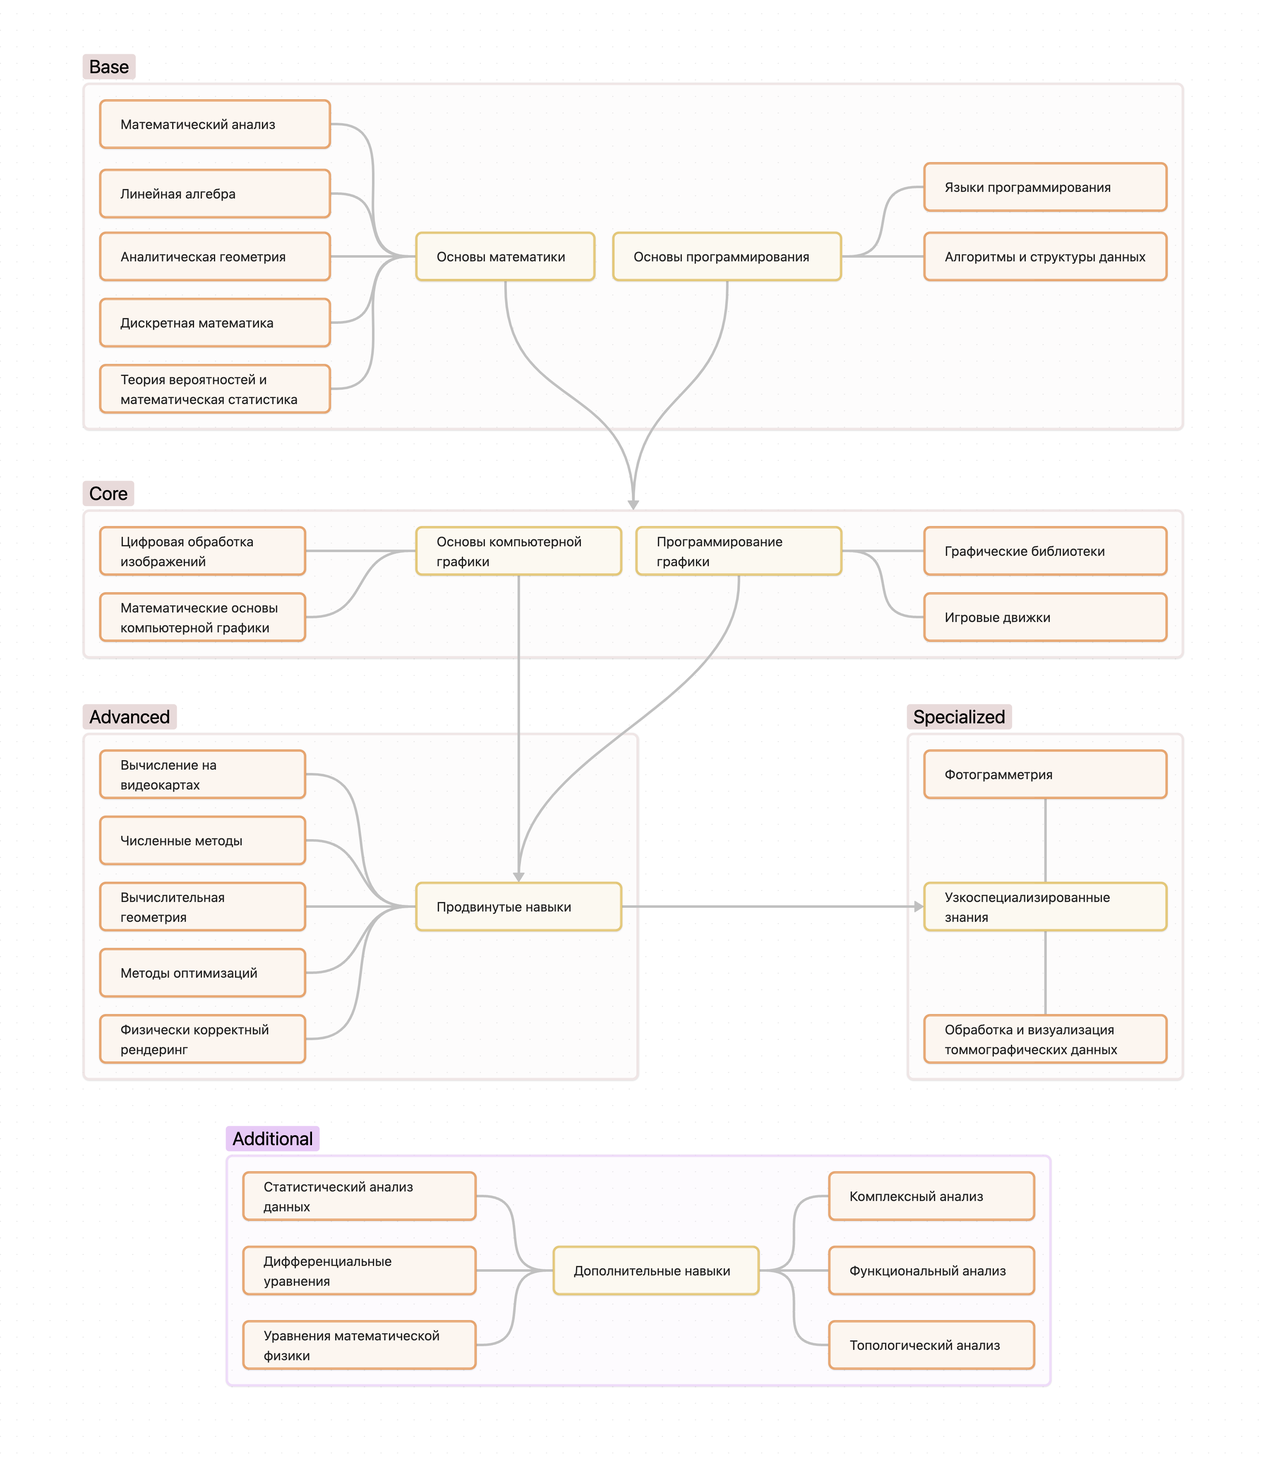
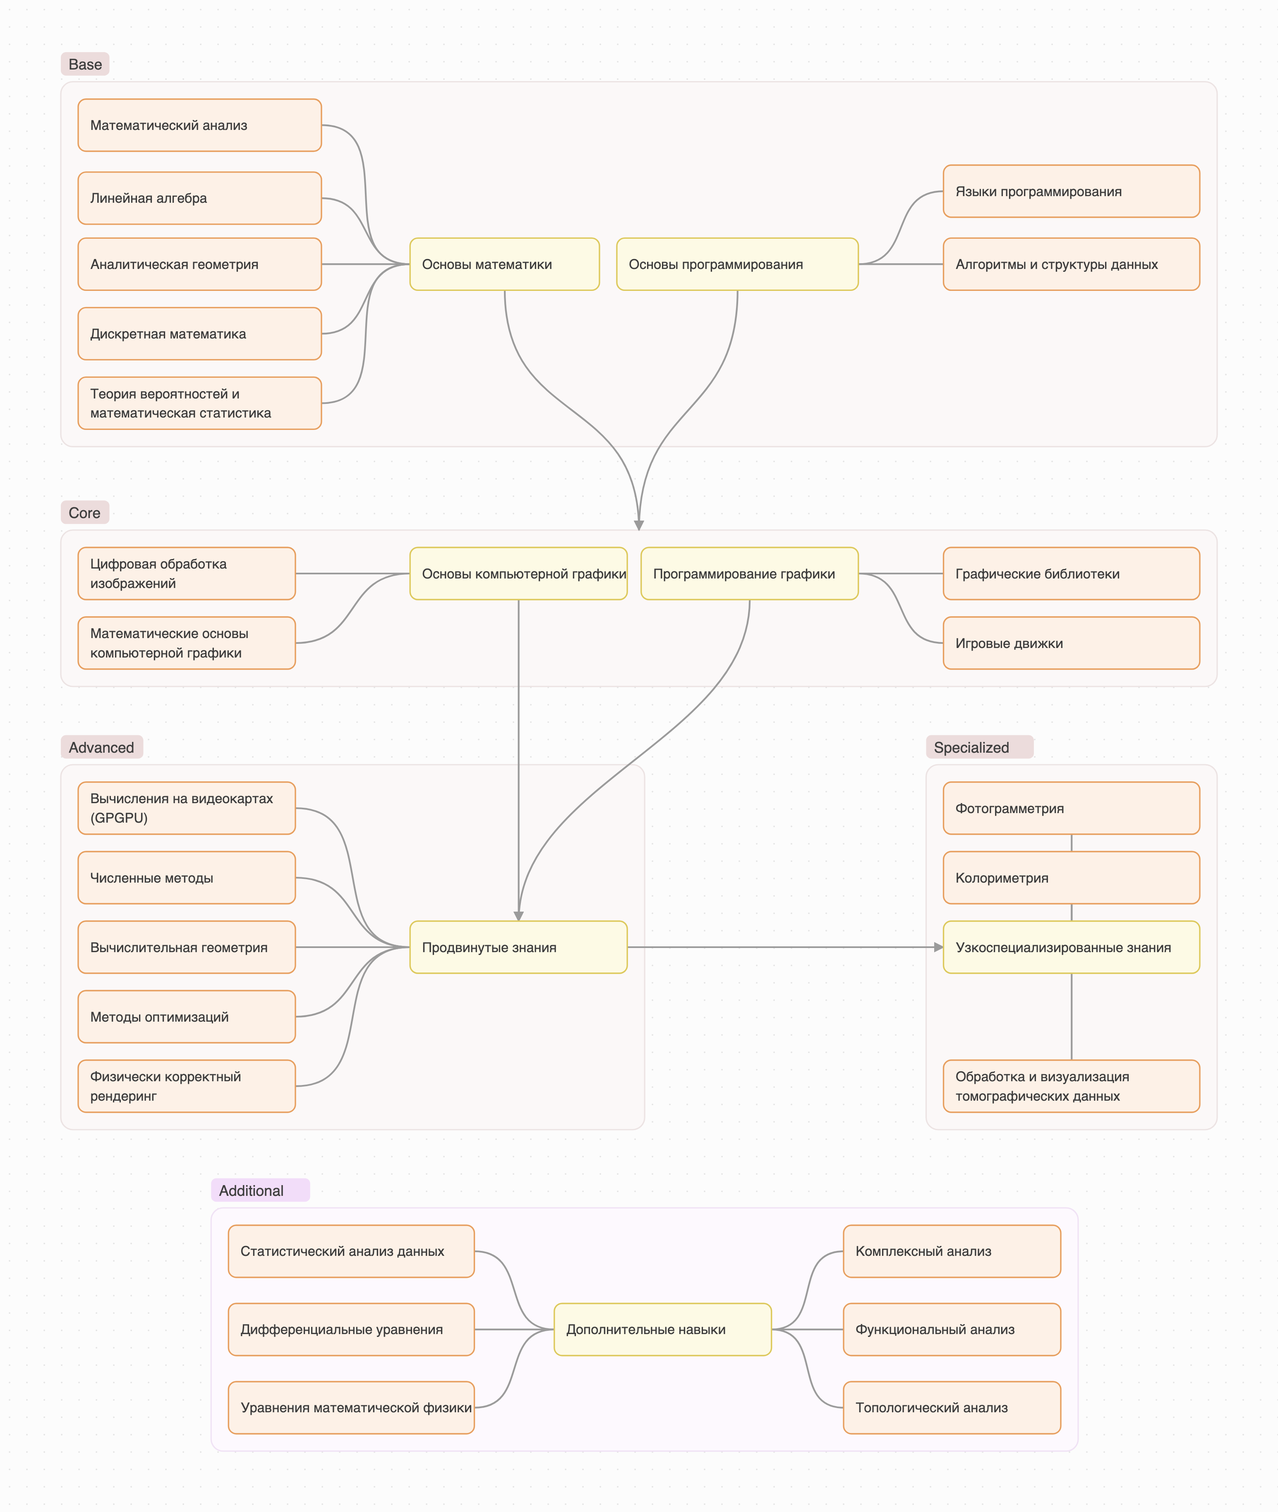
исправление ошибок

diff --git a/src/content/stages/base-math.md b/src/content/stages/base-math.md
@@ -2,6 +2,6 @@
 id: "base-math"
 stage: "Этап 1"
 title: "Основы математики"
-description: "Этот этап может показаться особенно сложным и скучным при самостоятельном обучении — и это действительно так, очень сложно сходу увидеть прикладную часть этих знаний. Математика охватывает огромный спектр тем, в которых легко потеряться, особенно если углубляться в теории, не имеющие прямого применения на начальном этапе. Обучение в таком случае превратиться в утопие. Чтобы не утонуть в сложностях, рекомендуется подходить к изучению этих разделов математики по спирали: сначала осваивать базовые понятия каждого раздела, а затем постепенно возвращаться к ним, расширяя и углубляя понимание."
+description: "Этот этап может показаться особенно сложным и скучным при самостоятельном обучении — и это действительно так, очень сложно сходу увидеть прикладную часть этих знаний. Математика охватывает огромный спектр тем, в которых легко потеряться, особенно если углубляться в теории, не имеющие прямого применения на начальном этапе. Обучение в таком случае превратится в бесконечный процесс. Чтобы не утонуть в сложностях, рекомендуется подходить к изучению этих разделов математики по спирали: сначала осваивать базовые понятия каждого раздела, а затем постепенно возвращаться к ним, расширяя и углубляя понимание."
 order: 1
 ---

diff --git a/src/content/subjects/pbr.md b/src/content/subjects/pbr.md
@@ -3,14 +3,14 @@ title: "Физически корректный рендеринг"
 image: "/resources/subjects/default.png"
 stage: "advanced"
 order: 5
-description: "Physically based rendering (PBR) — это метод компьютерной графики, который позволяет рендерить фотореалистичные изображения."
+description: "Physically based rendering (PBR) — это подход в компьютерной графике, который позволяет рендерить фотореалистичные изображения."
 resources:
   - title: "Physically Based Rendering: From Theory To Implementation"
-    description: "Онлайн-книга по реализации PBR рендер. Практико-ориентированная подача материала, но чрезчур последовательная структура, поэтому ее трудно использовать как справочник"
+    description: "Онлайн-книга по реализации PBR рендер. Практико-ориентированная подача материала, но чересчур последовательная структура, поэтому ее трудно использовать как справочник"
     url: "https://pbr-book.org/"
     language: en
   - title: 'Julian Fong, Magnus Wrenninge, Christopher Kulla and Ralf Habel "Production volume rendering: SIGGRAPH 2017 course"'
-    description: "Большая статья, описывающая техники современного объемного рендеринге в кинопроизводстве"
+    description: "Большая статья, описывающая техники современного объемного рендеринга в кинопроизводстве"
     language: en
   - title: "Radiometry: Overview"
     description: "Теория в заметках по радиометрии используемая в PBR (блог Moments in Graphics)"

diff --git a/src/content/subjects/graphics-libs.md b/src/content/subjects/graphics-libs.md
@@ -3,7 +3,7 @@ title: "Графические библиотеки"
 image: "/resources/subjects/default.png"
 stage: "graphics-programming"
 order: 1
-description: "Графическая библиотека — это программная библиотека, предназначенная для рендеринга компьютерной графики. Как правило, она предоставляет оптимизированные версии функций, которые выполняют распространённые задачи рендеринга (отрисовка треугольников, растеризация и т.д.\n Основные технологии: OpenGL, Vulkan, Metal, DirectX3D"
+description: "Графическая библиотека — это программная библиотека, предназначенная для рендеринга компьютерной графики. Как правило, она предоставляет оптимизированные версии функций, которые выполняют распространённые задачи рендеринга (отрисовка треугольников, растеризация и т.д.).\n Основные технологии: OpenGL, Vulkan, Metal, Direct3D"
 resources:
   - title: "Vulkan tutorial"
     description: "Хороший обучающий материал по Vulkan. Официальный туториал основан на нем"

diff --git a/src/content/subjects/color-science.md b/src/content/subjects/color-science.md
@@ -1,5 +1,5 @@
 ---
-title: "Колорометрия"
+title: "Колориметрия"
 image: "/resources/subjects/default.png"
 stage: "highly-specialized"
 order: 3
@@ -12,15 +12,15 @@ resources:
     url: "https://www.colour-science.org/"
     language: en
   - title: "Цветовая вычислительная фотография. Часть 1: Теория цвета"
-    description: "Доступное введение в колорометрию"
+    description: "Доступное введение в колориметрию"
     url: "https://habr.com/ru/companies/airi/articles/901284/"
     language: ru
   - title: "Цветовая вычислительная фотография. Часть 2: Стандарты CIE 1931"
-    description: "Доступное введение в колорометрию"
+    description: "Доступное введение в колориметрию"
     url: "https://habr.com/ru/companies/airi/articles/916116/"
     language: ru
   - title: "Цветовая вычислительная фотография. Часть 3: За границами стандарта CIE 1931"
-    description: "Доступное введение в колорометрию"
+    description: "Доступное введение в колориметрию"
     url: "https://habr.com/ru/companies/airi/articles/954982/"
     language: ru
 ---

diff --git a/src/content/subjects/linear-algebra.md b/src/content/subjects/linear-algebra.md
@@ -3,7 +3,7 @@ title: "Линейная алгебра"
 image: "/resources/subjects/default.png"
 stage: "base-math"
 order: 2
-description: "Линейная алгебра и аналитическая геометрия — это самое важное, что необходимо усвоить в начале. Линейная алгебра дает фундаментальные знания работы с векторами, матрицами и пространствами. Которые представляют собой инструменты работы с геометрическими объектами"
+description: "Линейная алгебра и аналитическая геометрия — это самое важное, что необходимо усвоить в начале. Линейная алгебра дает фундаментальные знания работы с векторами, матрицами и пространствами, которые представляют собой инструменты работы с геометрическими объектами"
 resources:
   - title: "Сущность Линейной Алгебры"
     description: "Интерактивное введение"

diff --git a/src/content/subjects/analytical-geometry.md b/src/content/subjects/analytical-geometry.md
@@ -3,7 +3,7 @@ title: "Аналитическая геометрия"
 image: "/resources/subjects/default.png"
 stage: "base-math"
 order: 3
-description: "Линейная алгебра и аналитическая геометрия — это самое важное, что необходимо усвоить в начале. Геометрия является областью изучающая пространственные фигуры. Компьютерная графика повсеместно состоит из геометрических фигур"
+description: "Линейная алгебра и аналитическая геометрия — это самое важное, что необходимо усвоить в начале. Геометрия является областью, изучающей пространственные фигуры. Компьютерная графика повсеместно состоит из геометрических фигур"
 resources:
   - title: "Аналитическая геометрия"
     description: "Аналитическая геометрия от mathprofi"

diff --git a/src/content/stages/additional-skills.md b/src/content/stages/additional-skills.md
@@ -1,6 +1,6 @@
 ---
 id: "additional-skills"
-stage: "Этап 4"
+stage: "Этап 5"
 title: "Дополнительные навыки"
 description: "В последние десятилетия математика стала настолько глубоко проникать в компьютерную графику, что найти область, не связанную с теми или иными задачами графики, становится всё сложнее. Многие современные методы опираются на нетривиальные математические конструкции, и их понимание может дать ощутимое преимущество. На этом этапе собраны не самые популярные, но потенциально ценные навыки, которые могут пригодиться при решении сложных или нестандартных задач."
 order: 7

diff --git a/src/content/subjects/discrete-math.md b/src/content/subjects/discrete-math.md
@@ -3,7 +3,7 @@ title: "Дискретная математика"
 image: "/resources/subjects/discrete_math.png"
 stage: "base-math"
 order: 4
-description: "Дает теоретические основы для работы с разными структурами данных. Логика, графы, деревья, множества, отношения и т.д. — все это важные элементы прикладной математики в целом"
+description: "Дискретная математика дает теоретические основы для работы с разными структурами данных. Логика, графы, деревья, множества, отношения и т.д. — все это важные элементы прикладной математики в целом"
 resources:
   - title: 'Новиков Ф.А. "Дискретная математика для программистов"'
     level: medium

diff --git a/src/content/subjects/programming-languages.md b/src/content/subjects/programming-languages.md
@@ -3,7 +3,7 @@ title: "Языки программирования"
 image: "/resources/subjects/prog_lang.png"
 stage: "base-cs"
 order: 1
-description: "Первым делом, язык программирования — это инструмент, инструмент для общения с компьютером. Важно еще понимать, что не существует универсального ЯП, каждый ЯП решает определенный задачи"
+description: "Первым делом, язык программирования — это инструмент, инструмент для общения с компьютером. Важно еще понимать, что не существует универсального ЯП, каждый ЯП решает определенные задачи"
 resources:
   - title: "Основы C++"
     description: "Яндекс хендбук"

diff --git a/src/content/subjects/math-analysis.md b/src/content/subjects/math-analysis.md
@@ -45,7 +45,7 @@ resources:
   - title: 'Бохан К. А. "Курс математического анализа (Том 1-2)"'
     description: "Учебник для студентов педагогических вузов, простое изложение материала"
     level: easy
-  - title: 'Демидович Б. П., Садовничий В. А. "Легендарный сборник задач и упражнений по математическому анализу"'
-    description: "Сборник с задачами по математическому анализу"
+  - title: 'Демидович Б. П. "Сборник задач и упражнений по математическому анализу"'
+    description: "Легендарный сборник задач, на котором выросло не одно поколение студентов"
     level: medium
 ---

diff --git a/src/content/subjects/photogrammetry.md b/src/content/subjects/photogrammetry.md
@@ -3,7 +3,7 @@ title: "Фотограмметрия"
 image: "/resources/subjects/default.png"
 stage: "highly-specialized"
 order: 2
-description: "Методика сканирования объектов, который использует фотокамеры или их комбинации для точного измерения формы, размера и положения объектов в пространстве"
+description: "Методика сканирования объектов, которая использует фотокамеры или их комбинации для точного измерения формы, размера и положения объектов в пространстве"
 resources:
   - title: "Видео-курс по фотограмметрии"
     url: "https://www.youtube.com/watch?v=dowgzvj9M6I&list=PL5p-5hHpsHBrtQQptYgT3kdt3Egb5QNci"
